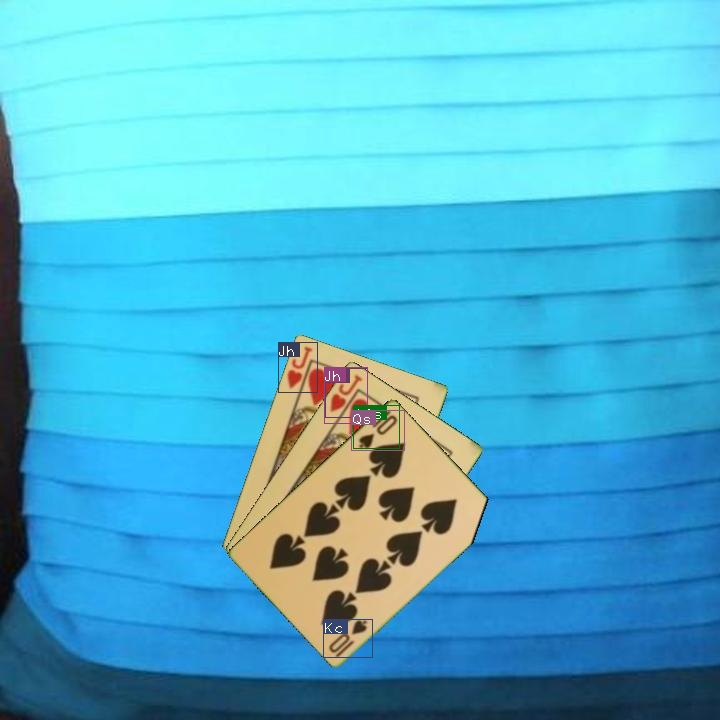
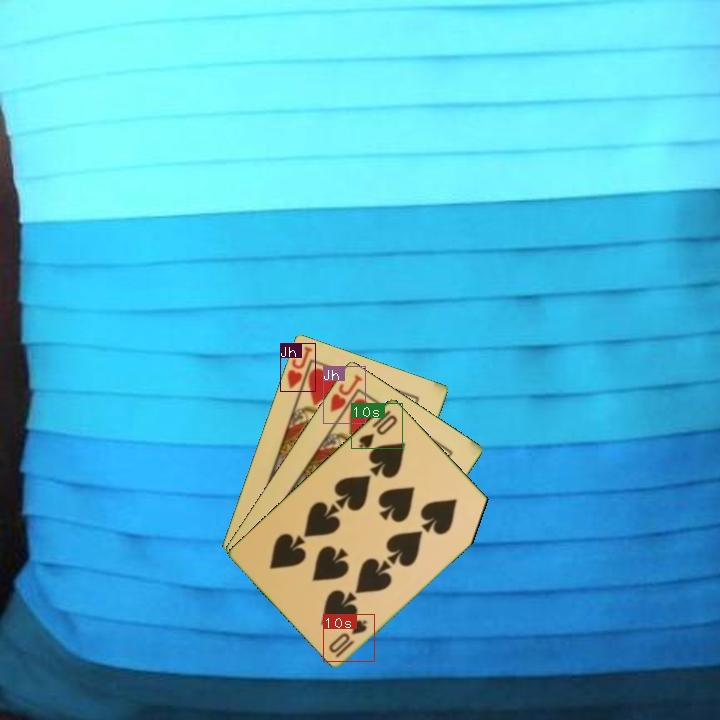
tweak

Changed region(s): [[0.3667, 0.4583, 0.5806, 0.6417], [0.4278, 0.825, 0.5194, 0.9167], [0.4889, 0.9167, 0.5194, 0.9472]]

diff --git a/detect.py b/detect.py
@@ -28,7 +28,7 @@ def arg_parse():
     parser.add_argument("--det", dest = 'det', help = 
                         "Image / Directory to store detections to",
                         default = "res", type = str)
-    parser.add_argument("--confidence", dest = "confidence", help = "Object Confidence to filter predictions", default = 0.5)
+    parser.add_argument("--confidence", dest = "confidence", help = "Object Confidence to filter predictions", default = 0.6)
     parser.add_argument("--nms_thresh", dest = "nms_thresh", help = "NMS Threshhold", default = 0.4)
     parser.add_argument("--cfg", dest = 'cfgfile', help = 
                         "Config file",
@@ -192,11 +192,12 @@ def draw_res(output, loaded_ims, classes, det_dir, imlist):
         return img
 
 
-    map(lambda x: write(x, loaded_ims), output)
+    list(map(lambda x: write(x, loaded_ims), output))
+    print(det_dir)
 
     det_names = pd.Series(imlist).apply(lambda x: "{}/det_{}".format(det_dir,x.split("/")[-1]))
 
-    map(cv2.imwrite, det_names, loaded_ims)
+    list(map(cv2.imwrite, det_names, loaded_ims))
 
     torch.cuda.empty_cache()
 

diff --git a/score_hand.py b/score_hand.py
@@ -4,7 +4,7 @@ from util import class_num_to_tuple
 from os import path as osp
 import argparse
 
-CONF = .5
+CONF = .6
 NMS_THRESH = .4
 RES = "./res"
 CFG = "cfg/obj-yolov3.cfg"
